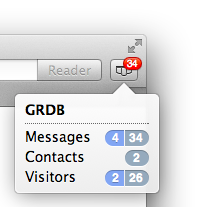
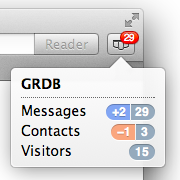
Also show negative change in count of favourites
Before, online additions to this count were highlighted.

diff --git a/GRDB.safariextension/pop.html b/GRDB.safariextension/pop.html
@@ -6,7 +6,7 @@
 body {
 	margin:		4px 8px;
 	font:		14px/20px 'Lucida Grande', sans-serif;
-	width:		124px;
+	width:		134px;
 }
 
 h1 {
@@ -39,6 +39,7 @@ ul {
 
 li {
 	text-shadow: #fff 0 1px 0;
+	overflow:	hidden;
 }
 
 li[onclick], h1[onclick] {
@@ -53,7 +54,7 @@ li span {
 	float:		right;
 }
 
-li span[data-new]:before {
+li span[data-add]:before, li span[data-sub]:before {
 	display:	inline-block;
 	min-width:	0.8em;
 	margin:		2px 1px 0 0;
@@ -61,11 +62,19 @@ li span[data-new]:before {
 	font:		bold 12px/14px Helvetica, sans-serif;
 	text-align:	center;
 	color:		#fff;
-	background:	#8ae;
 	text-shadow: rgba(0,0,0, 0.25) 0 1px 0;
-	content:	attr(data-new);
 	border-radius: 1em 0 0 1em;
 	box-shadow:	rgba(0,0,0, 0.25) 0 1px 0 inset, #fff 0 1px 0;
+}
+
+li span[data-add]:before {
+	background:	#8ae;
+	content:	"+" attr(data-add);
+}
+
+li span[data-sub]:before {
+	background:	#ea8;
+	content:	"−" attr(data-sub);
 }
 
 li span[data-count]:after {
@@ -83,14 +92,18 @@ li span[data-count]:after {
 	box-shadow:	rgba(0,0,0, 0.25) 0 1px 0 inset, #fff 0 1px 0;
 }
 
-li span[data-new][data-count]:after {
+li span[data-add][data-count]:after, li span[data-sub][data-count]:after {
 	min-width:	0.8em;
 	padding:	0.1em 0.5em 0.1em 0.35em;
 	border-radius: 0 1em 1em 0;
 }
 
-li:hover span:before {
+li:hover span[data-add]:before {
 	background:	#68d;
+}
+
+li:hover span[data-sub]:before {
+	background:	#d86;
 }
 
 li:hover span:after {
@@ -116,10 +129,15 @@ function nn(val)
 function setBadges(node, count, diff)
 {
 	node.setAttribute("data-count", nn(count));
-	if(diff) {
-		node.setAttribute("data-new", diff);
+	if(diff>0) {
+		node.setAttribute("data-add", diff);
+		node.removeAttribute("data-sub");
+	} else if(diff<0) {
+		node.removeAttribute("data-add");
+		node.setAttribute("data-sub", -diff);
 	} else {
-		node.removeAttribute("data-new");
+		node.removeAttribute("data-add");
+		node.removeAttribute("data-sub");
 	}
 }
 
@@ -158,7 +176,7 @@ function showVisitors()
 <h1 id="home" data-stat="0" onclick="openHome()">GRDB</h1>
 <ul class="on">
 <li onclick="showMails()">Messages<span id="messages" data-count="--"></span></li>
-<li onclick="showContacts()">Contacts<span id="contacts" data-new="2" data-count="--"></span></li>
+<li onclick="showContacts()">Contacts<span id="contacts" data-count="--"></span></li>
 <li onclick="showVisitors()">Visitors<span id="visitors" data-count="--"></span></li>
 </ul>
 </body>

diff --git a/GRDB.safariextension/global.html b/GRDB.safariextension/global.html
@@ -66,7 +66,7 @@ safari.application.addEventListener("message", function(message) {
 		break;
 		case "contactCountDidChange":
 			hasSession = true;
-			postNewNotification(message.message, "Favourite", "Favourites", "contact", showContacts);
+			postNewNotification(message.message, "Favourite", "Favourites", "contact", showContacts, true);
 		break;
 		case "updateContactCount":
 			updateCount("contact", message.message);
@@ -196,7 +196,7 @@ function updateCount(tag, newCount)
 	closeNotification(tag);
 }
 
-function postNewNotification(newCount, type, types, tag, func)
+function postNewNotification(newCount, type, types, tag, func, dodiff)
 {
 	var diff = newCount - count[tag];
 	count[tag] = newCount;
@@ -204,7 +204,7 @@ function postNewNotification(newCount, type, types, tag, func)
 	if(diff > 0) {
 		var neu = count[tag] - seenCount[tag];
 		postNotification(neu + " New " + (neu==1?type:types), "Overall " + count[tag] + " " + (count[tag]==1?type:types) + ".", tag, func);
-	} else if(diff == 0) {
+	} else if(dodiff || diff == 0) {
 		// Noop
 	} else {
 		updateCount(tag, newCount);
